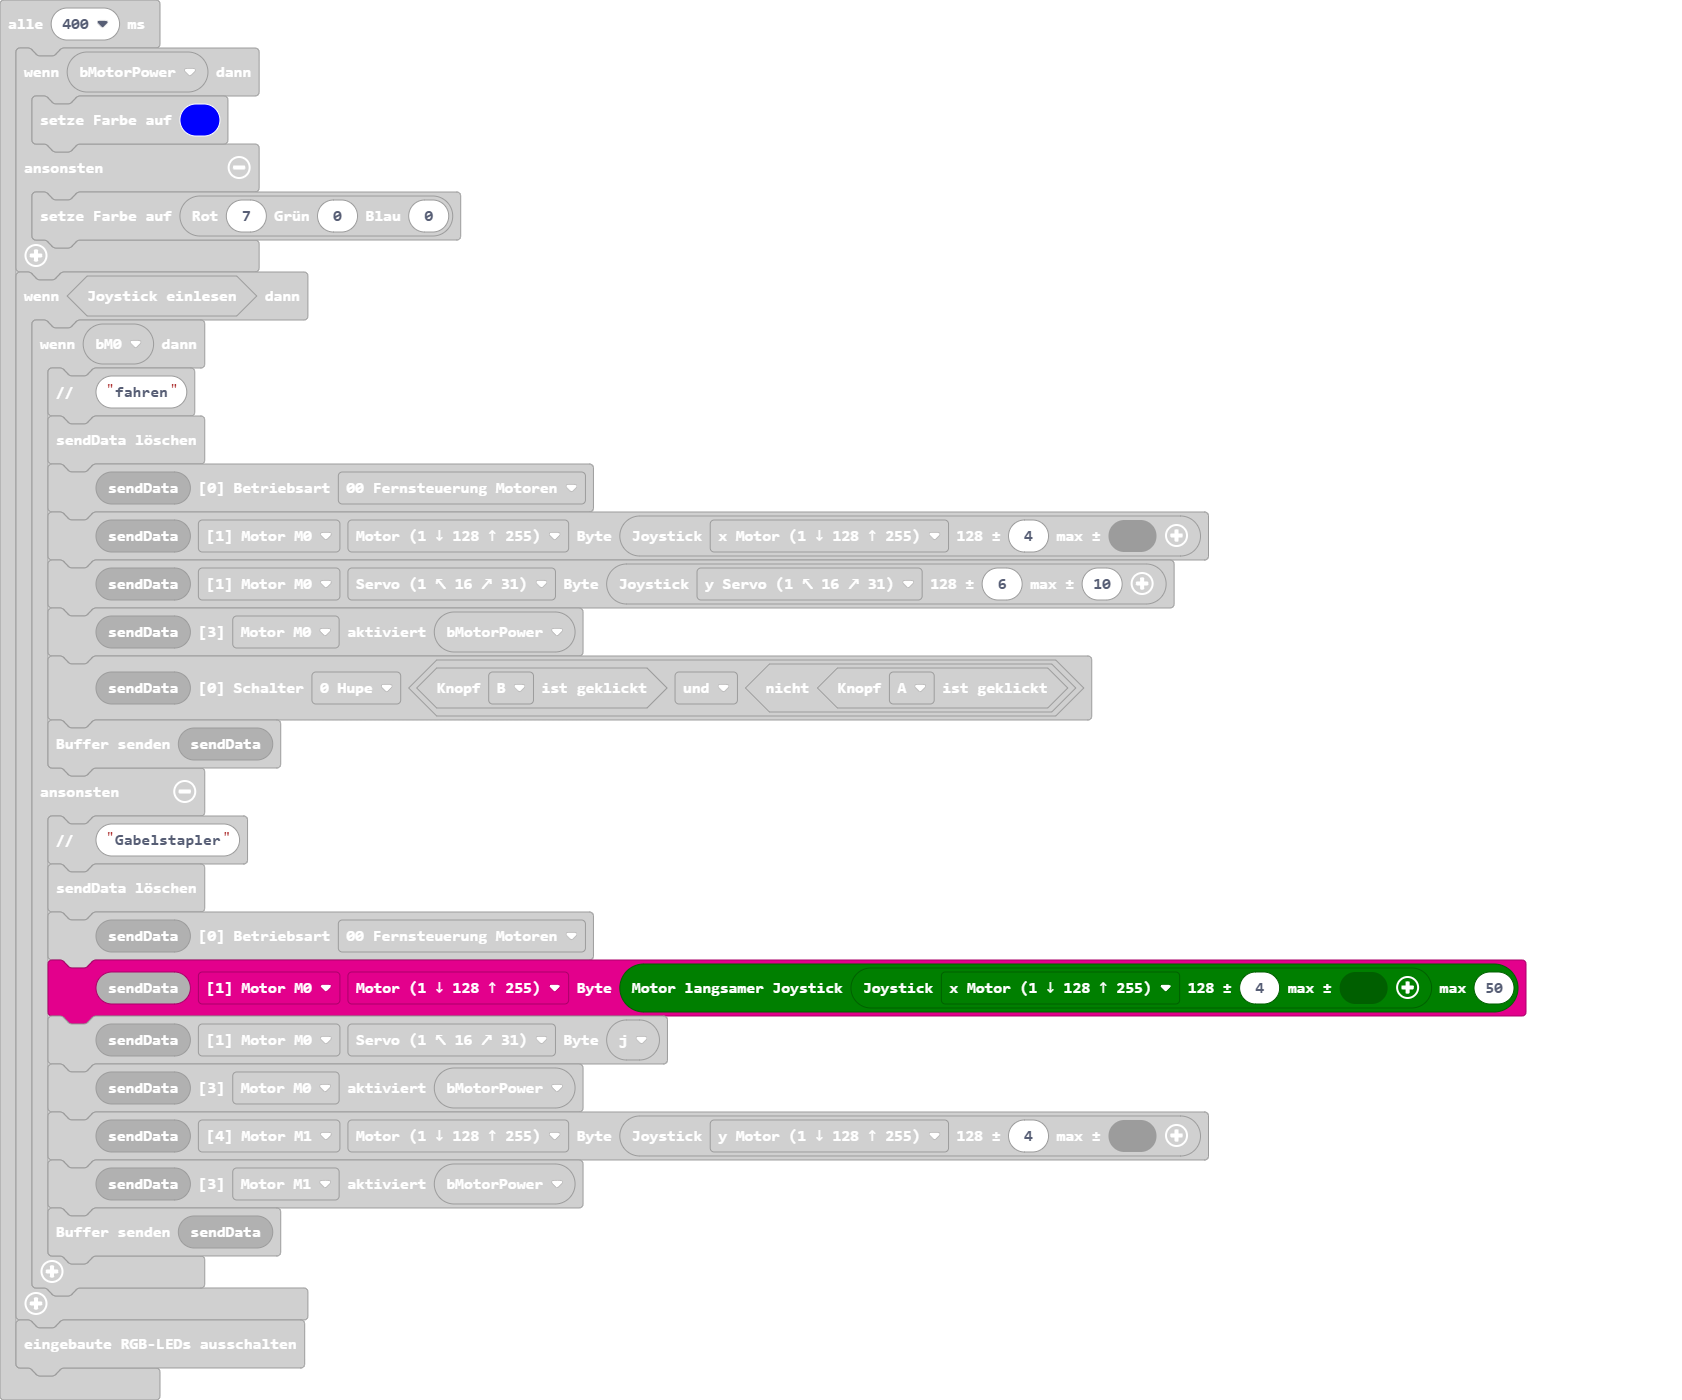
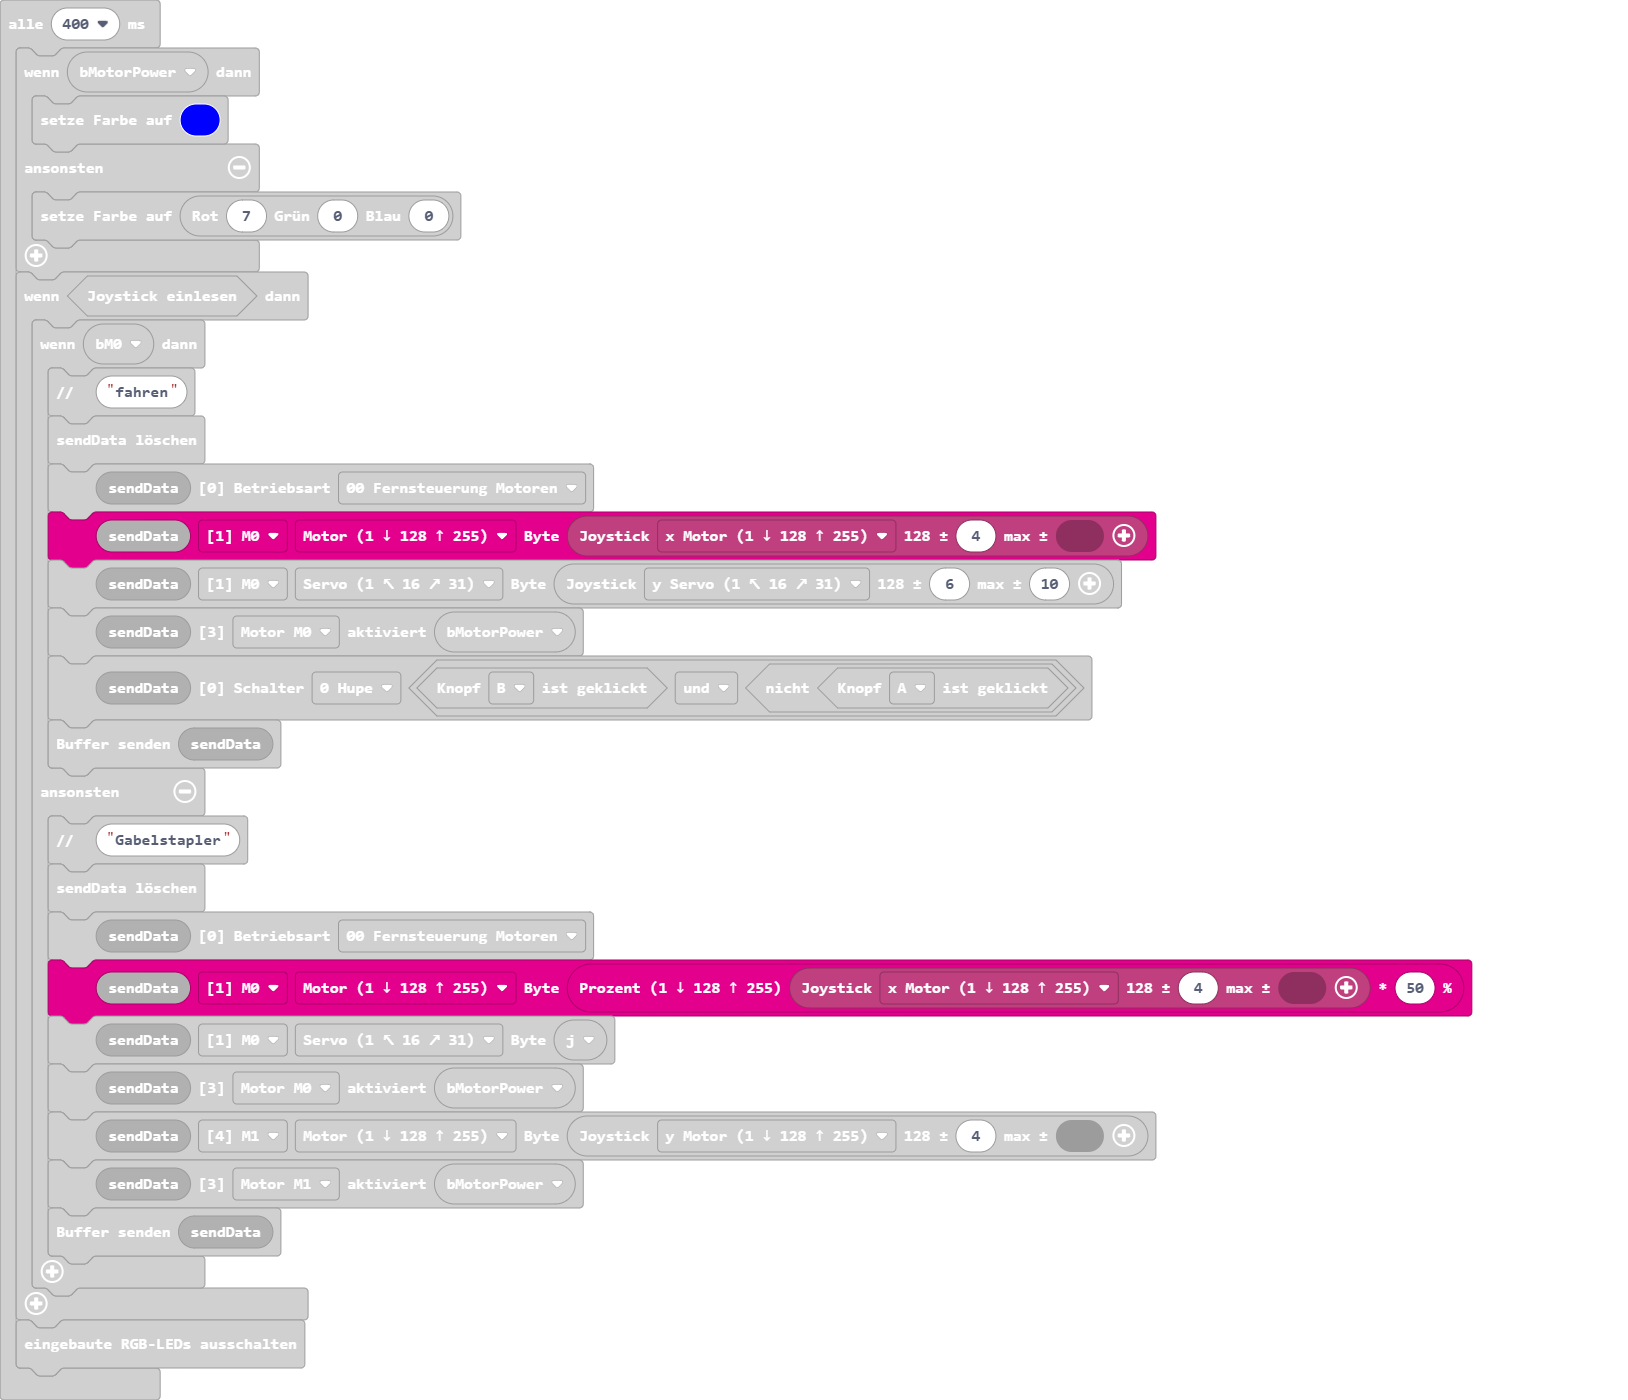
Aktualisiere pxt.json, main.blocks, main.ts

diff --git a/main.ts b/main.ts
@@ -57,7 +57,7 @@ loops.everyInterval(400, function () {
             radio.comment("fahren")
             radio.fill_sendBuffer19()
             radio.setBetriebsart(radio.radio_sendBuffer19(), radio.e0Betriebsart.p0)
-            radio.setByte(radio.radio_sendBuffer19(), radio.eBufferPointer.m0, radio.eBufferOffset.b0_Motor, radio.joystickValue(radio.eJoystickValue.motor, 4))
+            radio.setByte(radio.radio_sendBuffer19(), radio.eBufferPointer.m0, radio.eBufferOffset.b0_Motor, radio.joystickValue(radio.eJoystickValue.xmotor, 4))
             radio.setByte(radio.radio_sendBuffer19(), radio.eBufferPointer.m0, radio.eBufferOffset.b1_Servo, radio.joystickValue(radio.eJoystickValue.servo16, 6, 10))
             radio.setaktiviert(radio.radio_sendBuffer19(), radio.e3aktiviert.m0, bMotorPower)
             radio.setSchalter(radio.radio_sendBuffer19(), radio.e0Schalter.b0, input.buttonIsPressed(Button.B) && !(input.buttonIsPressed(Button.A)))
@@ -66,7 +66,7 @@ loops.everyInterval(400, function () {
             radio.comment("Gabelstapler")
             radio.fill_sendBuffer19()
             radio.setBetriebsart(radio.radio_sendBuffer19(), radio.e0Betriebsart.p0)
-            radio.setByte(radio.radio_sendBuffer19(), radio.eBufferPointer.m0, radio.eBufferOffset.b0_Motor, radio.motorProzent(radio.joystickValue(radio.eJoystickValue.motor), 50))
+            radio.setByte(radio.radio_sendBuffer19(), radio.eBufferPointer.m0, radio.eBufferOffset.b0_Motor, radio.motorProzent(radio.joystickValue(radio.eJoystickValue.xmotor), 50))
             radio.setByte(radio.radio_sendBuffer19(), radio.eBufferPointer.m0, radio.eBufferOffset.b1_Servo, j)
             radio.setaktiviert(radio.radio_sendBuffer19(), radio.e3aktiviert.m0, bMotorPower)
             radio.setByte(radio.radio_sendBuffer19(), radio.eBufferPointer.m1, radio.eBufferOffset.b0_Motor, radio.joystickValue(radio.eJoystickValue.ymotor, 4))
